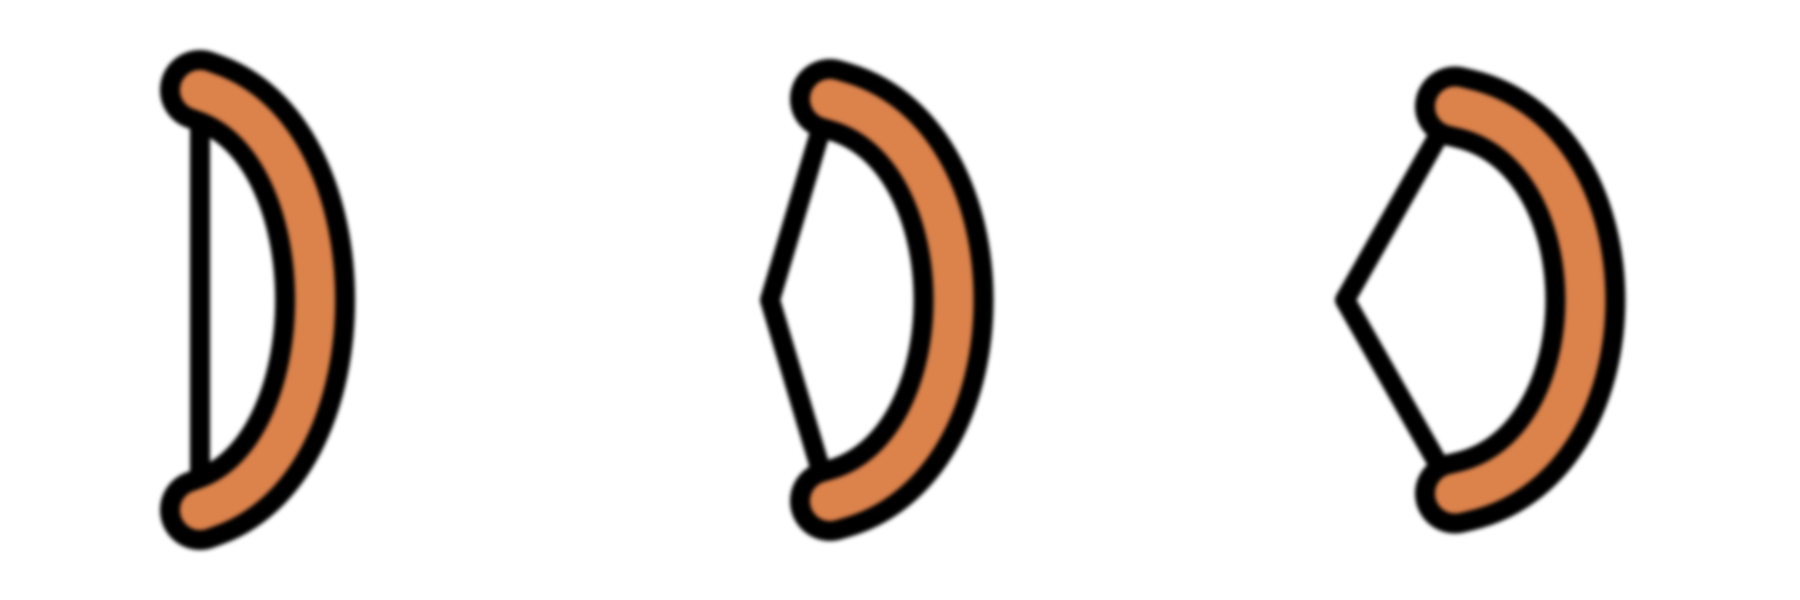
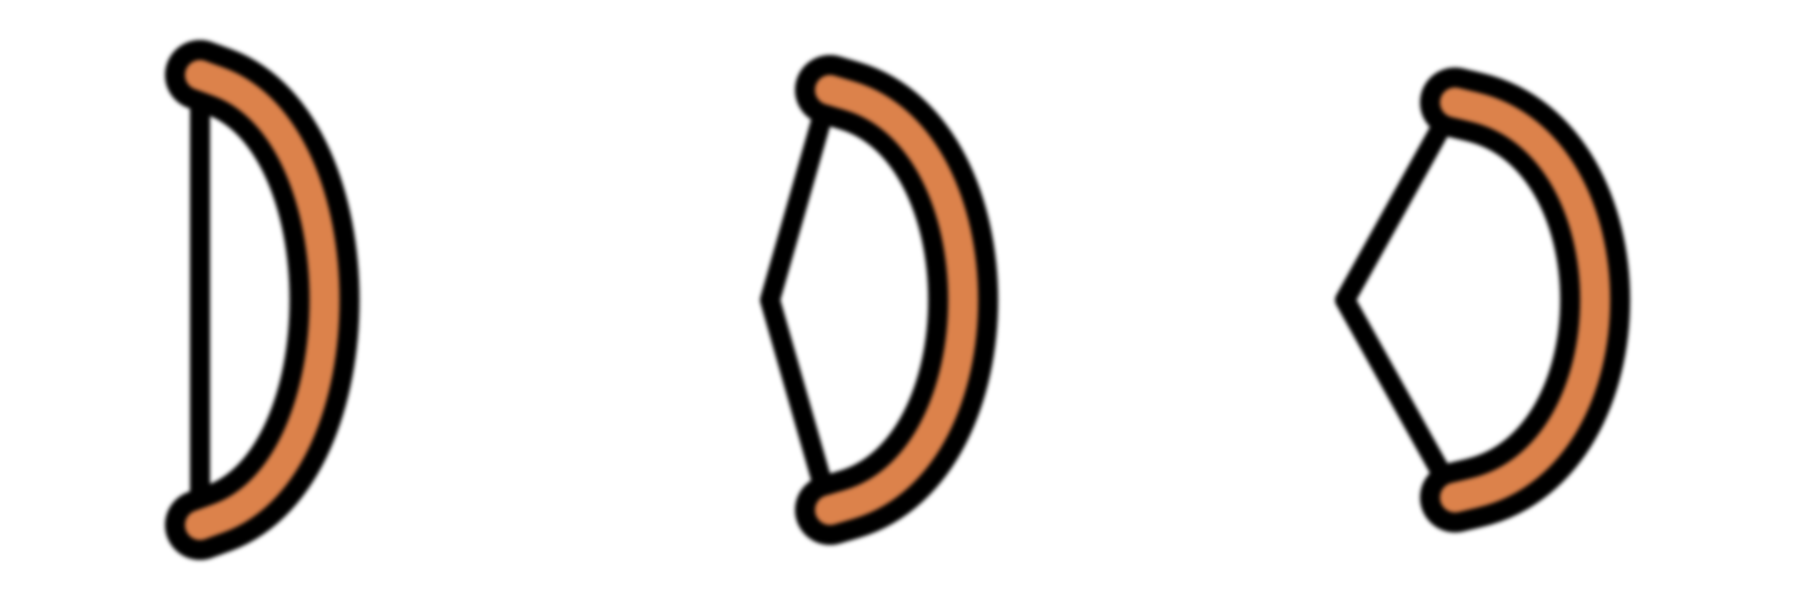
modify pullback

diff --git a/gen_images/gen_recurve_svg.py b/gen_images/gen_recurve_svg.py
@@ -20,11 +20,18 @@ def move_vector(v1, degrees, dist):
     return new_vector
 
 
-class BowDef:
-    def __init__(self, angle, bend_len, curve_len, thickness=30, height=400, push=0, pull=0):
-        self.angle = angle
-        self.bend_len = bend_len
+class RecurveDef:
+    def __init__(self, wing_len, wing_angle, curve_len, curve_angle,
+                 attach_len, attach_angle, handle_len=40, handle_dist=100, thickness=30,
+                 height=400, push=0, pull=0):
+        self.wing_len = wing_len
+        self.wing_angle = wing_angle
         self.curve_len = curve_len
+        self.curve_angle = curve_angle
+        self.attach_len = attach_len
+        self.attach_angle = attach_angle
+        #
+        self.handle_len = handle_len
         self.thickness = thickness
         self.height = height
         self.push = push
@@ -41,13 +48,16 @@ DWG = svgwrite.Drawing("bow.svg", size=('1800px', '600px'))
 
 def draw_bow(bow, offset=Vector2(0,0)):
     # calculate control points
-    top_end = BASEXY + Vector2(bow.push, -bow.height/2) + offset
-    top_bend = move_vector(top_end, 90-bow.angle, bow.bend_len)
-    top_control = move_vector(top_bend, 90-bow.angle, bow.curve_len)
+    top_curve = BASEXY + Vector2(bow.push, -bow.height/2) + offset
+    top_wing = move_vector(top_end, 90+bow.wing_angle, bow.wing_len)
+    top_attach = move_vector(top_end, 90+bow.angle, bow.bend_len)
+    top_curve_control = move_vector(top_end, 90+bow.angle, bow.wing_len)
+    top_wing_control = move_vector(top_end, 90+bow.angle, bow.wing_len)
+    top_attach_control = move_vector(top_bend, 90+bow.angle, bow.curve_len*2)
     #
     bottom_end = BASEXY + Vector2(bow.push, bow.height/2) + offset
     bottom_bend = move_vector(bottom_end, -90+bow.angle, bow.bend_len)
-    bottom_control = move_vector(bottom_bend, -90+bow.angle, bow.curve_len)
+    bottom_control = move_vector(bottom_bend, -90+bow.angle, bow.curve_len/2)
     #
     string_mid = BASEXY + Vector2(-bow.pull, 0) + offset
     
@@ -91,11 +101,11 @@ def pushed_bow(b):
 
 def p_pushed_bow(b, p):
     return BowDef(b.angle+0.12*p, b.bend_len, b.curve_len+0.28*p, thickness=b.thickness,
-                  height=b.height-1.0*p, push=b.push+p, pull=b.pull+p)
+                  height=b.height-0.6*p, push=b.push+p, pull=b.pull+p)
 
 
 # draw dat
-bow_a = BowDef(70, 20, 150, height=450, thickness=30)
+bow_a = BowDef(70, 10, 150, height=420, thickness=40)
 bow_b = p_pushed_bow(bow_a, 30)
 bow_c = p_pushed_bow(bow_a, 55)
 
